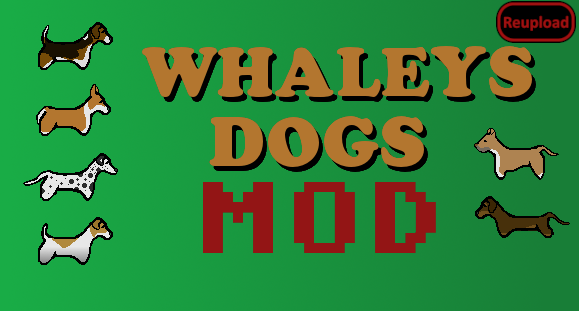
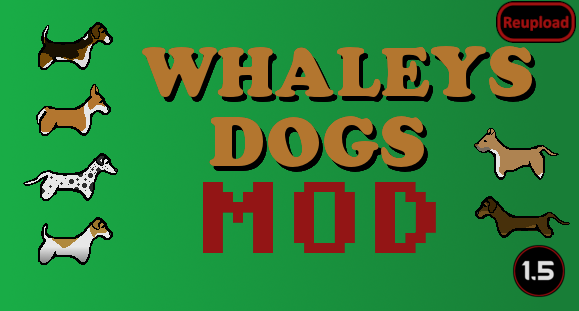
Mod updated for 1.5 and passed autotests

Changed region(s): [[0.8705, 0.7814, 0.9948, 0.955]]

diff --git a/README.md b/README.md
@@ -32,11 +32,13 @@ As far as I know this mod shouldn't cause any problems with any other mods, and 
 
 -  See if the the error persists if you just have this mod and its requirements active.
 -  If not, try adding your other mods until it happens again.
--  Post your error-log using https://steamcommunity.com/workshop/filedetails/?id=818773962]HugsLib and command Ctrl+F12
+-  Post your error-log using https://steamcommunity.com/workshop/filedetails/?id=818773962]HugsLib or the standalone https://steamcommunity.com/sharedfiles/filedetails/?id=2873415404]Uploader and command Ctrl+F12
 -  For best support, please use the Discord-channel for error-reporting.
 -  Do not report errors by making a discussion-thread, I get no notification of that.
 -  If you have the solution for a problem, please post it to the GitHub repository.
+-  Use https://github.com/RimSort/RimSort/releases/latest]RimSort to sort your mods
 
 
 
+https://steamcommunity.com/sharedfiles/filedetails/changelog/2274606936]![Image](https://img.shields.io/github/v/release/emipa606/WhaleysDogs?label=latest%20version&style=plastic&color=9f1111&labelColor=black)
 
